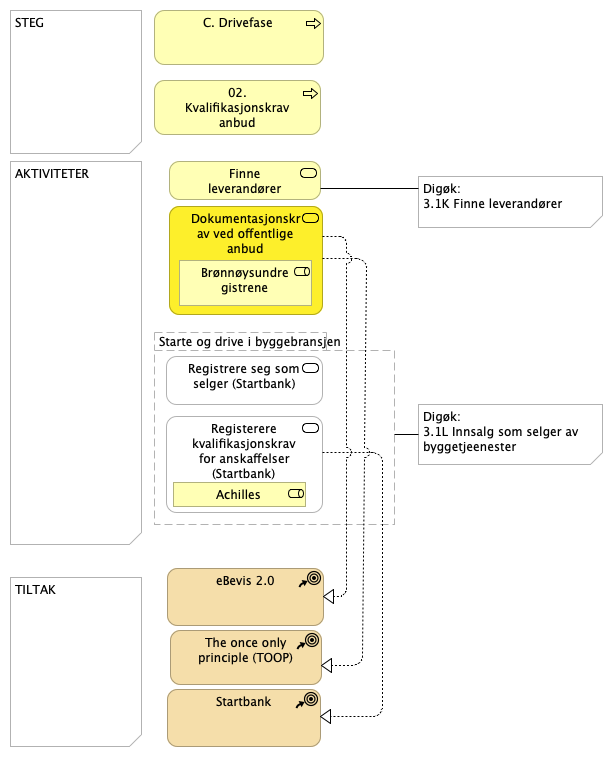
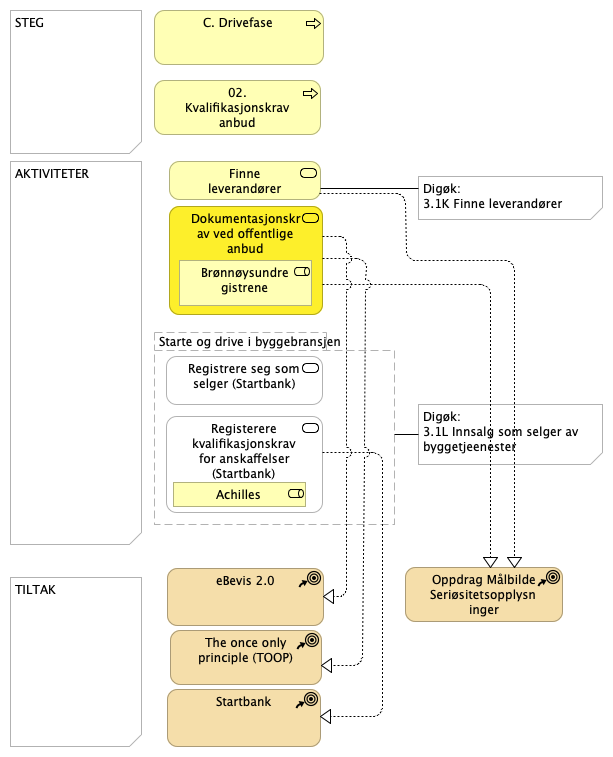
starte og drive bedrift

diff --git a/docs/id-0322705d/views/78f816fc-e15a-4ff1-bff8-065c4a5af3fa.html b/docs/id-0322705d/views/78f816fc-e15a-4ff1-bff8-065c4a5af3fa.html
@@ -42,6 +42,7 @@
 								<area shape="rect" coords="166,356,323,405" href="../elements/8e465a9c-c251-44f9-9ccb-330d3992fe32.html"  target="element">
 
 						<area shape="rect" coords="154,332,395,525" href="../elements/31a60498-3ffd-41f9-ba6a-12cab670e6a9.html"  target="element">
+						<area shape="rect" coords="405,567,563,622" href="../elements/720a2348-7c8a-4772-9c59-ae8bbe7ff8d8.html"  target="element">
 
 			</map>
 			<div role="tabpanel">
@@ -100,6 +101,7 @@
 											
 											<!-- DEBUG: Skipping element from class com.archimatetool.model.impl.DiagramModelNote -->
 											<!-- DEBUG: Skipping element from class com.archimatetool.model.impl.DiagramModelNote -->
+											<tr><td> <a href="../elements/720a2348-7c8a-4772-9c59-ae8bbe7ff8d8.html" target="element"> Oppdrag M&#229;lbilde Seri&#248;sitetsopplysninger </a> </td><td class="i18n-elementtype-CourseOfAction"></td></tr>
 
 								</tbody>
 							</table>
@@ -130,6 +132,12 @@
 																		<td> <a href="../elements/id-ed7869de-9227-44ee-b736-07911d6e5984.html" target="element"> Dokumentasjonskrav ved offentlige anbud </a> </td>
 																		<td> <a href="../elements/c02ff584-f1d9-4498-a4cc-5aa849262813.html" target="element"> The once only principle (TOOP) </a> </td>
 																	</tr>
+																	<tr>
+																		<td> <a href="../elements/0c4feb09-e258-40bb-86b9-9902be32d604.html" target="element">  </a> </td>
+																		<td> <a href="../elements/0c4feb09-e258-40bb-86b9-9902be32d604.html" target="element" class="i18n-elementtype-RealizationRelationship"></a> </td>
+																		<td> <a href="../elements/id-ed7869de-9227-44ee-b736-07911d6e5984.html" target="element"> Dokumentasjonskrav ved offentlige anbud </a> </td>
+																		<td> <a href="../elements/720a2348-7c8a-4772-9c59-ae8bbe7ff8d8.html" target="element"> Oppdrag M&#229;lbilde Seri&#248;sitetsopplysninger </a> </td>
+																	</tr>
 
 																			<tr>
 																				<td> <a href="../elements/e2f1cbf0-9fe2-4fa7-a102-3e5e8a8f0596.html" target="element">  </a> </td>
@@ -139,6 +147,13 @@
 																			</tr>
 
 											
+																	<tr>
+																		<td> <a href="../elements/96d53545-df68-4301-a51e-bed27aafaec1.html" target="element">  </a> </td>
+																		<td> <a href="../elements/96d53545-df68-4301-a51e-bed27aafaec1.html" target="element" class="i18n-elementtype-RealizationRelationship"></a> </td>
+																		<td> <a href="../elements/7988c024-bd89-4fc8-ab04-003bf248a556.html" target="element"> Finne leverand&#248;rer </a> </td>
+																		<td> <a href="../elements/720a2348-7c8a-4772-9c59-ae8bbe7ff8d8.html" target="element"> Oppdrag M&#229;lbilde Seri&#248;sitetsopplysninger </a> </td>
+																	</tr>
+
 																	<tr>
 																		<td> <a href="../elements/b6904fbe-b49e-4a73-a194-9456d28d990b.html" target="element">  </a> </td>
 																		<td> <a href="../elements/b6904fbe-b49e-4a73-a194-9456d28d990b.html" target="element" class="i18n-elementtype-CompositionRelationship"></a> </td>

diff --git a/docs/id-0322705d/elements/0c4feb09-e258-40bb-86b9-9902be32d604.html b/docs/id-0322705d/elements/0c4feb09-e258-40bb-86b9-9902be32d604.html
@@ -1,0 +1,69 @@
+<!DOCTYPE HTML PUBLIC "-//W3C//DTD HTML 4.01 Transitional//EN" "http://www.w3.org/TR/html4/loose.dtd">
+<html class="frame" lang="en">
+<head>
+	<meta http-equiv="Content-Type" content="text/html;charset=utf-8">
+	<title></title>
+
+	<!-- JQUERY (use 1.x branch to be compatible with IE 6/7/8) -->
+	<script type="text/javascript" src="../../lib/jquery/js/jquery-1.11.2.min.js"></script>
+	<!-- BOOTSTRAP -->
+	<link type="text/css" rel="stylesheet" href="../../lib/bootstrap/css/bootstrap-3.3.2.min.css">
+	<link type="text/css" rel="stylesheet" href="../../lib/bootstrap/css/bootstrap-theme-3.3.2.min.css">
+	<script type="text/javascript" src="../../lib/bootstrap/js/bootstrap-3.3.2.min.js"></script>
+	<!-- REPORT SPECIFIC -->
+	<link type="text/css" rel="stylesheet" href="../../css/model.css">
+	<link type="text/css" rel="stylesheet" href="../../css/i18n.css">
+	<script type="text/javascript" src="../../js/frame.js"></script>
+	<script type="text/javascript" src="../../js/imageMapResizer.min.js"></script>
+</head>
+
+<body>
+	<div class="panel panel-default root-panel">
+		<div class="panel-heading root-panel-heading">
+			<b></b>
+			(<span class="i18n-elementtype-RealizationRelationship"></span>)
+			<a class="glyphicon glyphicon-info-sign" id="hint-RealizationRelationship" target="hint"></a>
+		</div>
+		<div class="panel-body root-panel-body">
+			<div role="tabpanel">
+				<!-- Nav tabs -->
+				<ul class="nav nav-tabs" role="tablist">
+					<li role="presentation" class="active"><a href="#documentation" aria-controls="documentation" role="tab" data-toggle="tab" class="i18n-documentation"></a></li>
+					<li role="presentation"><a href="#properties" aria-controls="properties" role="tab" data-toggle="tab" class="i18n-properties"></a></li>
+				</ul>
+
+				<!-- Tab panes -->
+				<div class="tab-content">
+					<div role="tabpanel" class="tab-pane active" id="documentation">
+							<br>
+							<b class="i18n-relation-source"></b>
+								<a href="../elements/id-ed7869de-9227-44ee-b736-07911d6e5984.html" target="element">
+									Dokumentasjonskrav ved offentlige anbud
+								</a> <br>
+							<b class="i18n-relation-target"></b>
+								<a href="../elements/720a2348-7c8a-4772-9c59-ae8bbe7ff8d8.html" target="element">
+									Oppdrag M&#229;lbilde Seri&#248;sitetsopplysninger
+								</a> <br>
+							<br>
+						<textarea id="docsrc" style="display:none"></textarea>
+						<div id="doctgt" style="white-space:pre-wrap"></div>
+					</div>
+					<div role="tabpanel" class="tab-pane" id="properties">
+						<table class="table table-striped table-hover table-condensed">
+							<thead>
+								<tr>
+									<th class="i18n-key"></th>
+									<th class="i18n-value"></th>
+								</tr>
+							</thead>
+							<tbody>
+							</tbody>
+						</table>
+					</div>
+			  </div>
+			</div>
+		</div>
+	</div>
+	<script type="text/javascript">imageMapResize();</script>
+</body>
+</html>

diff --git a/docs/id-0322705d/elements/96d53545-df68-4301-a51e-bed27aafaec1.html b/docs/id-0322705d/elements/96d53545-df68-4301-a51e-bed27aafaec1.html
@@ -1,0 +1,69 @@
+<!DOCTYPE HTML PUBLIC "-//W3C//DTD HTML 4.01 Transitional//EN" "http://www.w3.org/TR/html4/loose.dtd">
+<html class="frame" lang="en">
+<head>
+	<meta http-equiv="Content-Type" content="text/html;charset=utf-8">
+	<title></title>
+
+	<!-- JQUERY (use 1.x branch to be compatible with IE 6/7/8) -->
+	<script type="text/javascript" src="../../lib/jquery/js/jquery-1.11.2.min.js"></script>
+	<!-- BOOTSTRAP -->
+	<link type="text/css" rel="stylesheet" href="../../lib/bootstrap/css/bootstrap-3.3.2.min.css">
+	<link type="text/css" rel="stylesheet" href="../../lib/bootstrap/css/bootstrap-theme-3.3.2.min.css">
+	<script type="text/javascript" src="../../lib/bootstrap/js/bootstrap-3.3.2.min.js"></script>
+	<!-- REPORT SPECIFIC -->
+	<link type="text/css" rel="stylesheet" href="../../css/model.css">
+	<link type="text/css" rel="stylesheet" href="../../css/i18n.css">
+	<script type="text/javascript" src="../../js/frame.js"></script>
+	<script type="text/javascript" src="../../js/imageMapResizer.min.js"></script>
+</head>
+
+<body>
+	<div class="panel panel-default root-panel">
+		<div class="panel-heading root-panel-heading">
+			<b></b>
+			(<span class="i18n-elementtype-RealizationRelationship"></span>)
+			<a class="glyphicon glyphicon-info-sign" id="hint-RealizationRelationship" target="hint"></a>
+		</div>
+		<div class="panel-body root-panel-body">
+			<div role="tabpanel">
+				<!-- Nav tabs -->
+				<ul class="nav nav-tabs" role="tablist">
+					<li role="presentation" class="active"><a href="#documentation" aria-controls="documentation" role="tab" data-toggle="tab" class="i18n-documentation"></a></li>
+					<li role="presentation"><a href="#properties" aria-controls="properties" role="tab" data-toggle="tab" class="i18n-properties"></a></li>
+				</ul>
+
+				<!-- Tab panes -->
+				<div class="tab-content">
+					<div role="tabpanel" class="tab-pane active" id="documentation">
+							<br>
+							<b class="i18n-relation-source"></b>
+								<a href="../elements/7988c024-bd89-4fc8-ab04-003bf248a556.html" target="element">
+									Finne leverand&#248;rer
+								</a> <br>
+							<b class="i18n-relation-target"></b>
+								<a href="../elements/720a2348-7c8a-4772-9c59-ae8bbe7ff8d8.html" target="element">
+									Oppdrag M&#229;lbilde Seri&#248;sitetsopplysninger
+								</a> <br>
+							<br>
+						<textarea id="docsrc" style="display:none"></textarea>
+						<div id="doctgt" style="white-space:pre-wrap"></div>
+					</div>
+					<div role="tabpanel" class="tab-pane" id="properties">
+						<table class="table table-striped table-hover table-condensed">
+							<thead>
+								<tr>
+									<th class="i18n-key"></th>
+									<th class="i18n-value"></th>
+								</tr>
+							</thead>
+							<tbody>
+							</tbody>
+						</table>
+					</div>
+			  </div>
+			</div>
+		</div>
+	</div>
+	<script type="text/javascript">imageMapResize();</script>
+</body>
+</html>

diff --git a/docs/id-0322705d/elements/720a2348-7c8a-4772-9c59-ae8bbe7ff8d8.html b/docs/id-0322705d/elements/720a2348-7c8a-4772-9c59-ae8bbe7ff8d8.html
@@ -1,0 +1,59 @@
+<!DOCTYPE HTML PUBLIC "-//W3C//DTD HTML 4.01 Transitional//EN" "http://www.w3.org/TR/html4/loose.dtd">
+<html class="frame" lang="en">
+<head>
+	<meta http-equiv="Content-Type" content="text/html;charset=utf-8">
+	<title>Oppdrag Målbilde Seriøsitetsopplysninger</title>
+
+	<!-- JQUERY (use 1.x branch to be compatible with IE 6/7/8) -->
+	<script type="text/javascript" src="../../lib/jquery/js/jquery-1.11.2.min.js"></script>
+	<!-- BOOTSTRAP -->
+	<link type="text/css" rel="stylesheet" href="../../lib/bootstrap/css/bootstrap-3.3.2.min.css">
+	<link type="text/css" rel="stylesheet" href="../../lib/bootstrap/css/bootstrap-theme-3.3.2.min.css">
+	<script type="text/javascript" src="../../lib/bootstrap/js/bootstrap-3.3.2.min.js"></script>
+	<!-- REPORT SPECIFIC -->
+	<link type="text/css" rel="stylesheet" href="../../css/model.css">
+	<link type="text/css" rel="stylesheet" href="../../css/i18n.css">
+	<script type="text/javascript" src="../../js/frame.js"></script>
+	<script type="text/javascript" src="../../js/imageMapResizer.min.js"></script>
+</head>
+
+<body>
+	<div class="panel panel-default root-panel">
+		<div class="panel-heading root-panel-heading">
+			<b>Oppdrag M&#229;lbilde Seri&#248;sitetsopplysninger</b>
+			(<span class="i18n-elementtype-CourseOfAction"></span>)
+			<a class="glyphicon glyphicon-info-sign" id="hint-CourseOfAction" target="hint"></a>
+		</div>
+		<div class="panel-body root-panel-body">
+			<div role="tabpanel">
+				<!-- Nav tabs -->
+				<ul class="nav nav-tabs" role="tablist">
+					<li role="presentation" class="active"><a href="#documentation" aria-controls="documentation" role="tab" data-toggle="tab" class="i18n-documentation"></a></li>
+					<li role="presentation"><a href="#properties" aria-controls="properties" role="tab" data-toggle="tab" class="i18n-properties"></a></li>
+				</ul>
+
+				<!-- Tab panes -->
+				<div class="tab-content">
+					<div role="tabpanel" class="tab-pane active" id="documentation">
+						<textarea id="docsrc" style="display:none"></textarea>
+						<div id="doctgt" style="white-space:pre-wrap"></div>
+					</div>
+					<div role="tabpanel" class="tab-pane" id="properties">
+						<table class="table table-striped table-hover table-condensed">
+							<thead>
+								<tr>
+									<th class="i18n-key"></th>
+									<th class="i18n-value"></th>
+								</tr>
+							</thead>
+							<tbody>
+							</tbody>
+						</table>
+					</div>
+			  </div>
+			</div>
+		</div>
+	</div>
+	<script type="text/javascript">imageMapResize();</script>
+</body>
+</html>

diff --git a/docs/id-0322705d/elements/model.html b/docs/id-0322705d/elements/model.html
@@ -805,6 +805,7 @@ Startpunkter
 										dataElements.push({id:"d3f5928c-200a-46bd-a149-962b5c04d0d2", type:"CourseOfAction", name:decodeURL("Offentlig+informasjon+i+nettbank"), description:decodeURL("")});
 										dataElements.push({id:"af58a96e-566d-4b07-935c-ece1e9d8cbb8", type:"CourseOfAction", name:decodeURL("IPR+lisens+og+panteregister%22+%28Patentstyret%29"), description:decodeURL("")});
 										dataElements.push({id:"93cb4ca1-ac2d-46a8-9750-775d1c074c73", type:"CourseOfAction", name:decodeURL("Maskinell+n%C3%A6ringskoding"), description:decodeURL("")});
+										dataElements.push({id:"720a2348-7c8a-4772-9c59-ae8bbe7ff8d8", type:"CourseOfAction", name:decodeURL("Oppdrag+M%C3%A5lbilde+Seri%C3%B8sitetsopplysninger"), description:decodeURL("")});
 
 
 										dataElements.push({id:"id-cd705856-8995-4a10-8f66-d160841ab0ef", type:"BusinessRole", name:decodeURL("BITS"), description:decodeURL("")});
@@ -4341,6 +4342,8 @@ Startpunkter
 										dataRelationships.push({id:"b9ffc6f0-0b16-410b-a106-e7e8d6181616", type:"RealizationRelationship", name:decodeURL(""), description:decodeURL(""), sourceid:"id-84d50f04-89b8-4135-b1cb-59b522a9ff52", targetid:"d3f5928c-200a-46bd-a149-962b5c04d0d2"});
 										dataRelationships.push({id:"f665561b-ca54-4c91-b423-6adcf13c2127", type:"RealizationRelationship", name:decodeURL(""), description:decodeURL(""), sourceid:"049363d4-8755-4659-8385-e0024869b7d9", targetid:"af58a96e-566d-4b07-935c-ece1e9d8cbb8"});
 										dataRelationships.push({id:"ef8f8521-280f-4a48-b3ed-2262467601ea", type:"RealizationRelationship", name:decodeURL(""), description:decodeURL(""), sourceid:"id-a38feba5-7a8e-4d5f-a96b-7578e8194079", targetid:"93cb4ca1-ac2d-46a8-9750-775d1c074c73"});
+										dataRelationships.push({id:"0c4feb09-e258-40bb-86b9-9902be32d604", type:"RealizationRelationship", name:decodeURL(""), description:decodeURL(""), sourceid:"id-ed7869de-9227-44ee-b736-07911d6e5984", targetid:"720a2348-7c8a-4772-9c59-ae8bbe7ff8d8"});
+										dataRelationships.push({id:"96d53545-df68-4301-a51e-bed27aafaec1", type:"RealizationRelationship", name:decodeURL(""), description:decodeURL(""), sourceid:"7988c024-bd89-4fc8-ab04-003bf248a556", targetid:"720a2348-7c8a-4772-9c59-ae8bbe7ff8d8"});
 
 
 												<!-- DEBUG: Skipping view A - Idéfase Steg 01 forretningsidé -->

diff --git a/docs/index.html b/docs/index.html
@@ -440,6 +440,7 @@
                                     				<li class="tree-element"><a href="id-0322705d/elements/d3f5928c-200a-46bd-a149-962b5c04d0d2.html" target="element"> Offentlig informasjon i nettbank </a></li>
                                     				<li class="tree-element"><a href="id-0322705d/elements/af58a96e-566d-4b07-935c-ece1e9d8cbb8.html" target="element"> IPR lisens og panteregister" (Patentstyret) </a></li>
                                     				<li class="tree-element"><a href="id-0322705d/elements/93cb4ca1-ac2d-46a8-9750-775d1c074c73.html" target="element"> Maskinell n&#230;ringskoding </a></li>
+                                    				<li class="tree-element"><a href="id-0322705d/elements/720a2348-7c8a-4772-9c59-ae8bbe7ff8d8.html" target="element"> Oppdrag M&#229;lbilde Seri&#248;sitetsopplysninger </a></li>
 
                                     </ul>
                                 </li>
@@ -9293,6 +9294,14 @@
 													<li class="tree-element"><a href="id-0322705d/elements/ef8f8521-280f-4a48-b3ed-2262467601ea.html" target="element">
 															<span class="i18n-elementtype-RealizationRelationship"></span>
 														(Registrere bedrift i Enhetsregisteret - Maskinell n&#230;ringskoding) 
+													</a></li>
+													<li class="tree-element"><a href="id-0322705d/elements/0c4feb09-e258-40bb-86b9-9902be32d604.html" target="element">
+															<span class="i18n-elementtype-RealizationRelationship"></span>
+														(Dokumentasjonskrav ved offentlige anbud - Oppdrag M&#229;lbilde Seri&#248;sitetsopplysninger) 
+													</a></li>
+													<li class="tree-element"><a href="id-0322705d/elements/96d53545-df68-4301-a51e-bed27aafaec1.html" target="element">
+															<span class="i18n-elementtype-RealizationRelationship"></span>
+														(Finne leverand&#248;rer - Oppdrag M&#229;lbilde Seri&#248;sitetsopplysninger) 
 													</a></li>
 
 									</ul>
